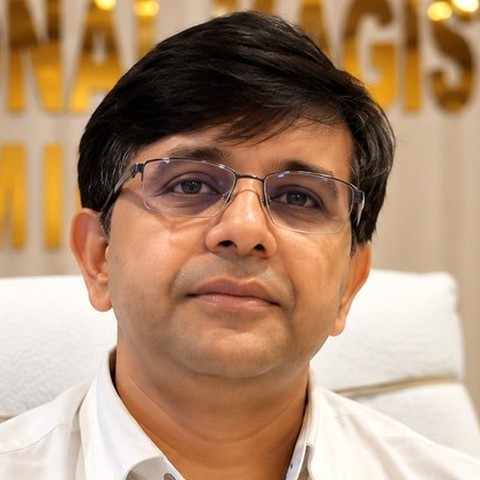
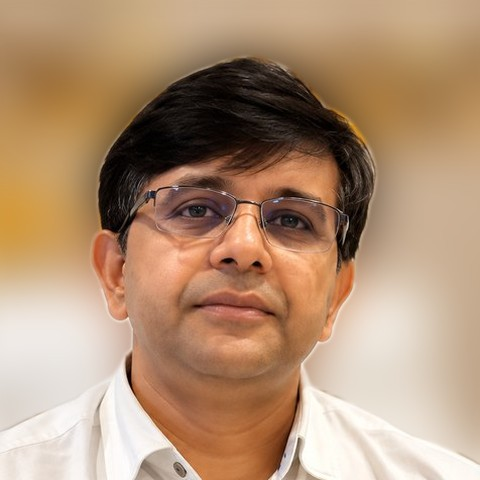
Team photos: soft backgrounds and headroom; form dropdown arrow fix

diff --git a/src/styles/global.css b/src/styles/global.css
@@ -2004,3 +2004,7 @@ form.grv.apt .msgbox textarea { min-height: 90px; }
 .fbtn.appt { display: inline-flex; align-items: center; gap: 8px; }
 .fbtn-arrow { width: 16px; height: 16px; flex: none; transition: transform .2s; }
 .fbtn.appt:hover .fbtn-arrow { transform: translate(2px, -2px); }
+
+/* Form dropdowns: one tidy arrow, inset from the right edge (light on the dark glass) */
+form.grv select { appearance: none; -webkit-appearance: none; padding-right: 44px; cursor: pointer; background-image: linear-gradient(45deg, transparent 50%, #fff 50%), linear-gradient(135deg, #fff 50%, transparent 50%); background-position: calc(100% - 22px) 52%, calc(100% - 16px) 52%; background-size: 6px 6px, 6px 6px; background-repeat: no-repeat; }
+form.grv select:focus { background-image: linear-gradient(45deg, transparent 50%, #7fd1a3 50%), linear-gradient(135deg, #7fd1a3 50%, transparent 50%); }
